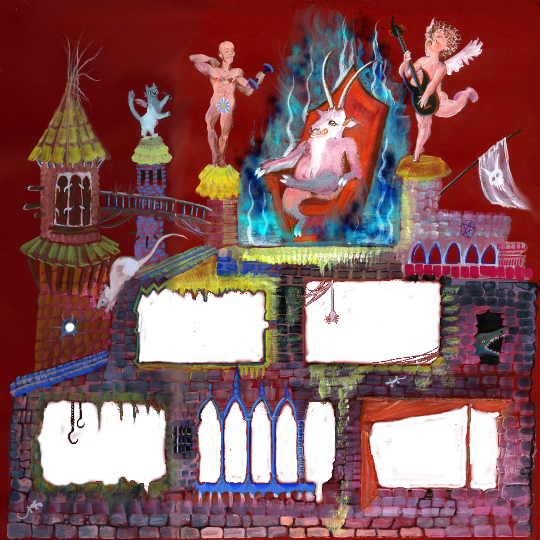
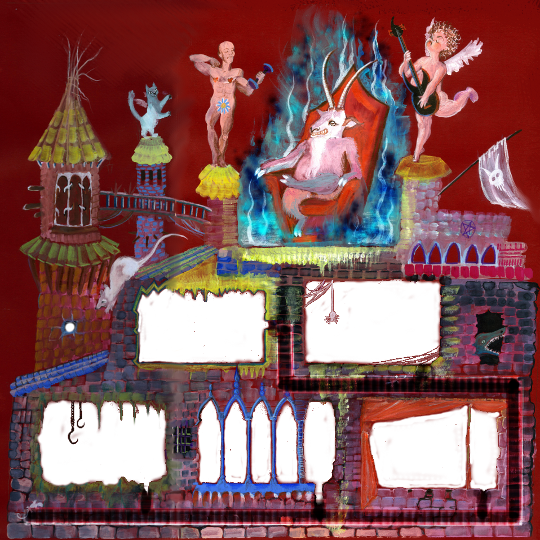
Merge

Changed region(s): [[0.0296, 0.563, 0.9778, 0.9778]]

diff --git a/src/cat/atridas87/ld25/Resources.java b/src/cat/atridas87/ld25/Resources.java
@@ -63,40 +63,40 @@ public abstract class Resources {
 		sales.add(aabbcc);
 
 		salesInicials.add(aa);
-		sockets.add(new RoomSocket(42, 403, 144, 81));
+		sockets.add(new RoomSocket(32, 400, 134, 88));
 		salesInicials.add(bb);
-		sockets.add(new RoomSocket(221, 404, 144, 81));
+		sockets.add(new RoomSocket(196, 401, 139, 88));
 		salesInicials.add(cc);
-		sockets.add(new RoomSocket(378, 403, 144, 81));
+		sockets.add(new RoomSocket(366, 402, 134, 89));
 
 		salesInicials.add(null);
-		sockets.add(new RoomSocket(302, 257, 144, 81));
+		sockets.add(new RoomSocket(297, 279, 144, 87));
 		salesInicials.add(null);
-		sockets.add(new RoomSocket(107, 255, 144, 81));
+		sockets.add(new RoomSocket(123, 288, 144, 81));
 
 		// salesInicials.add(null);sockets.add(new RoomSocket(209, 132, 144,
 		// 81));
 
 		// -----
 
-		Point e0 = new Point(540, 530);
-		Point e1 = new Point(25, 530);
+		Point e0 = new Point(10, 0);
 
-		Point w0 = new Point(25, 500);
-		Point w1 = new Point(75, 500);
-		Point ew0 = new Point(75, 450);
-		Point w2 = new Point(275, 500);
-		Point ew1 = new Point(275, 450);
-		Point w3 = new Point(440, 500);
-		Point ew2 = new Point(440, 450);
-		Point w4 = new Point(510, 500);
+		Point w0 = new Point(10, 516);
+		Point w1 = new Point(146, 516);
+		Point ew0 = new Point(146, 423);
+		Point w2 = new Point(320, 516);
+		Point ew1 = new Point(320, 423);
+		Point w3 = new Point(483, 516);
+		Point ew2 = new Point(483, 423);
+		Point w4 = new Point(514, 516);
 
-		Point w5 = new Point(510, 370);
-		Point w6 = new Point(360, 370);
-		Point ew3 = new Point(360, 320);
-		Point w7 = new Point(175, 370);
-		Point ew4 = new Point(175, 320);
-		Point dw = new Point(50, 370);
+		Point w5 = new Point(514, 386);
+		Point w6 = new Point(422, 386);
+		Point ew3 = new Point(422, 320);
+		Point w7 = new Point(284, 386);
+		Point w8 = new Point(284, 324);
+		Point ew4 = new Point(250, 324);
+		Point dw = new Point(284, 280);
 
 		ArrayList<ArrayList<Point>> waypoints = new ArrayList<ArrayList<Point>>();
 
@@ -121,6 +121,7 @@ public abstract class Resources {
 		ArrayList<Point> path4 = new ArrayList<Castle.Point>();
 		path4.add(w6);
 		path4.add(w7);
+		path4.add(w8);
 
 		waypoints.add(path0);
 		waypoints.add(path1);
@@ -149,7 +150,7 @@ public abstract class Resources {
 		entryPath3.add(ew3);
 
 		ArrayList<Point> entryPath4 = new ArrayList<Castle.Point>();
-		entryPath4.add(w7);
+		entryPath4.add(w8);
 		entryPath4.add(ew4);
 
 		entryWaypoints.add(entryPath0);
@@ -162,13 +163,12 @@ public abstract class Resources {
 
 		ArrayList<Point> enterPath = new ArrayList<Castle.Point>();
 		enterPath.add(e0);
-		enterPath.add(e1);
 		enterPath.add(w0);
 
 		// -----
 
 		ArrayList<Point> diePath = new ArrayList<Castle.Point>();
-		diePath.add(w7);
+		diePath.add(w8);
 		diePath.add(dw);
 
 		// -----
